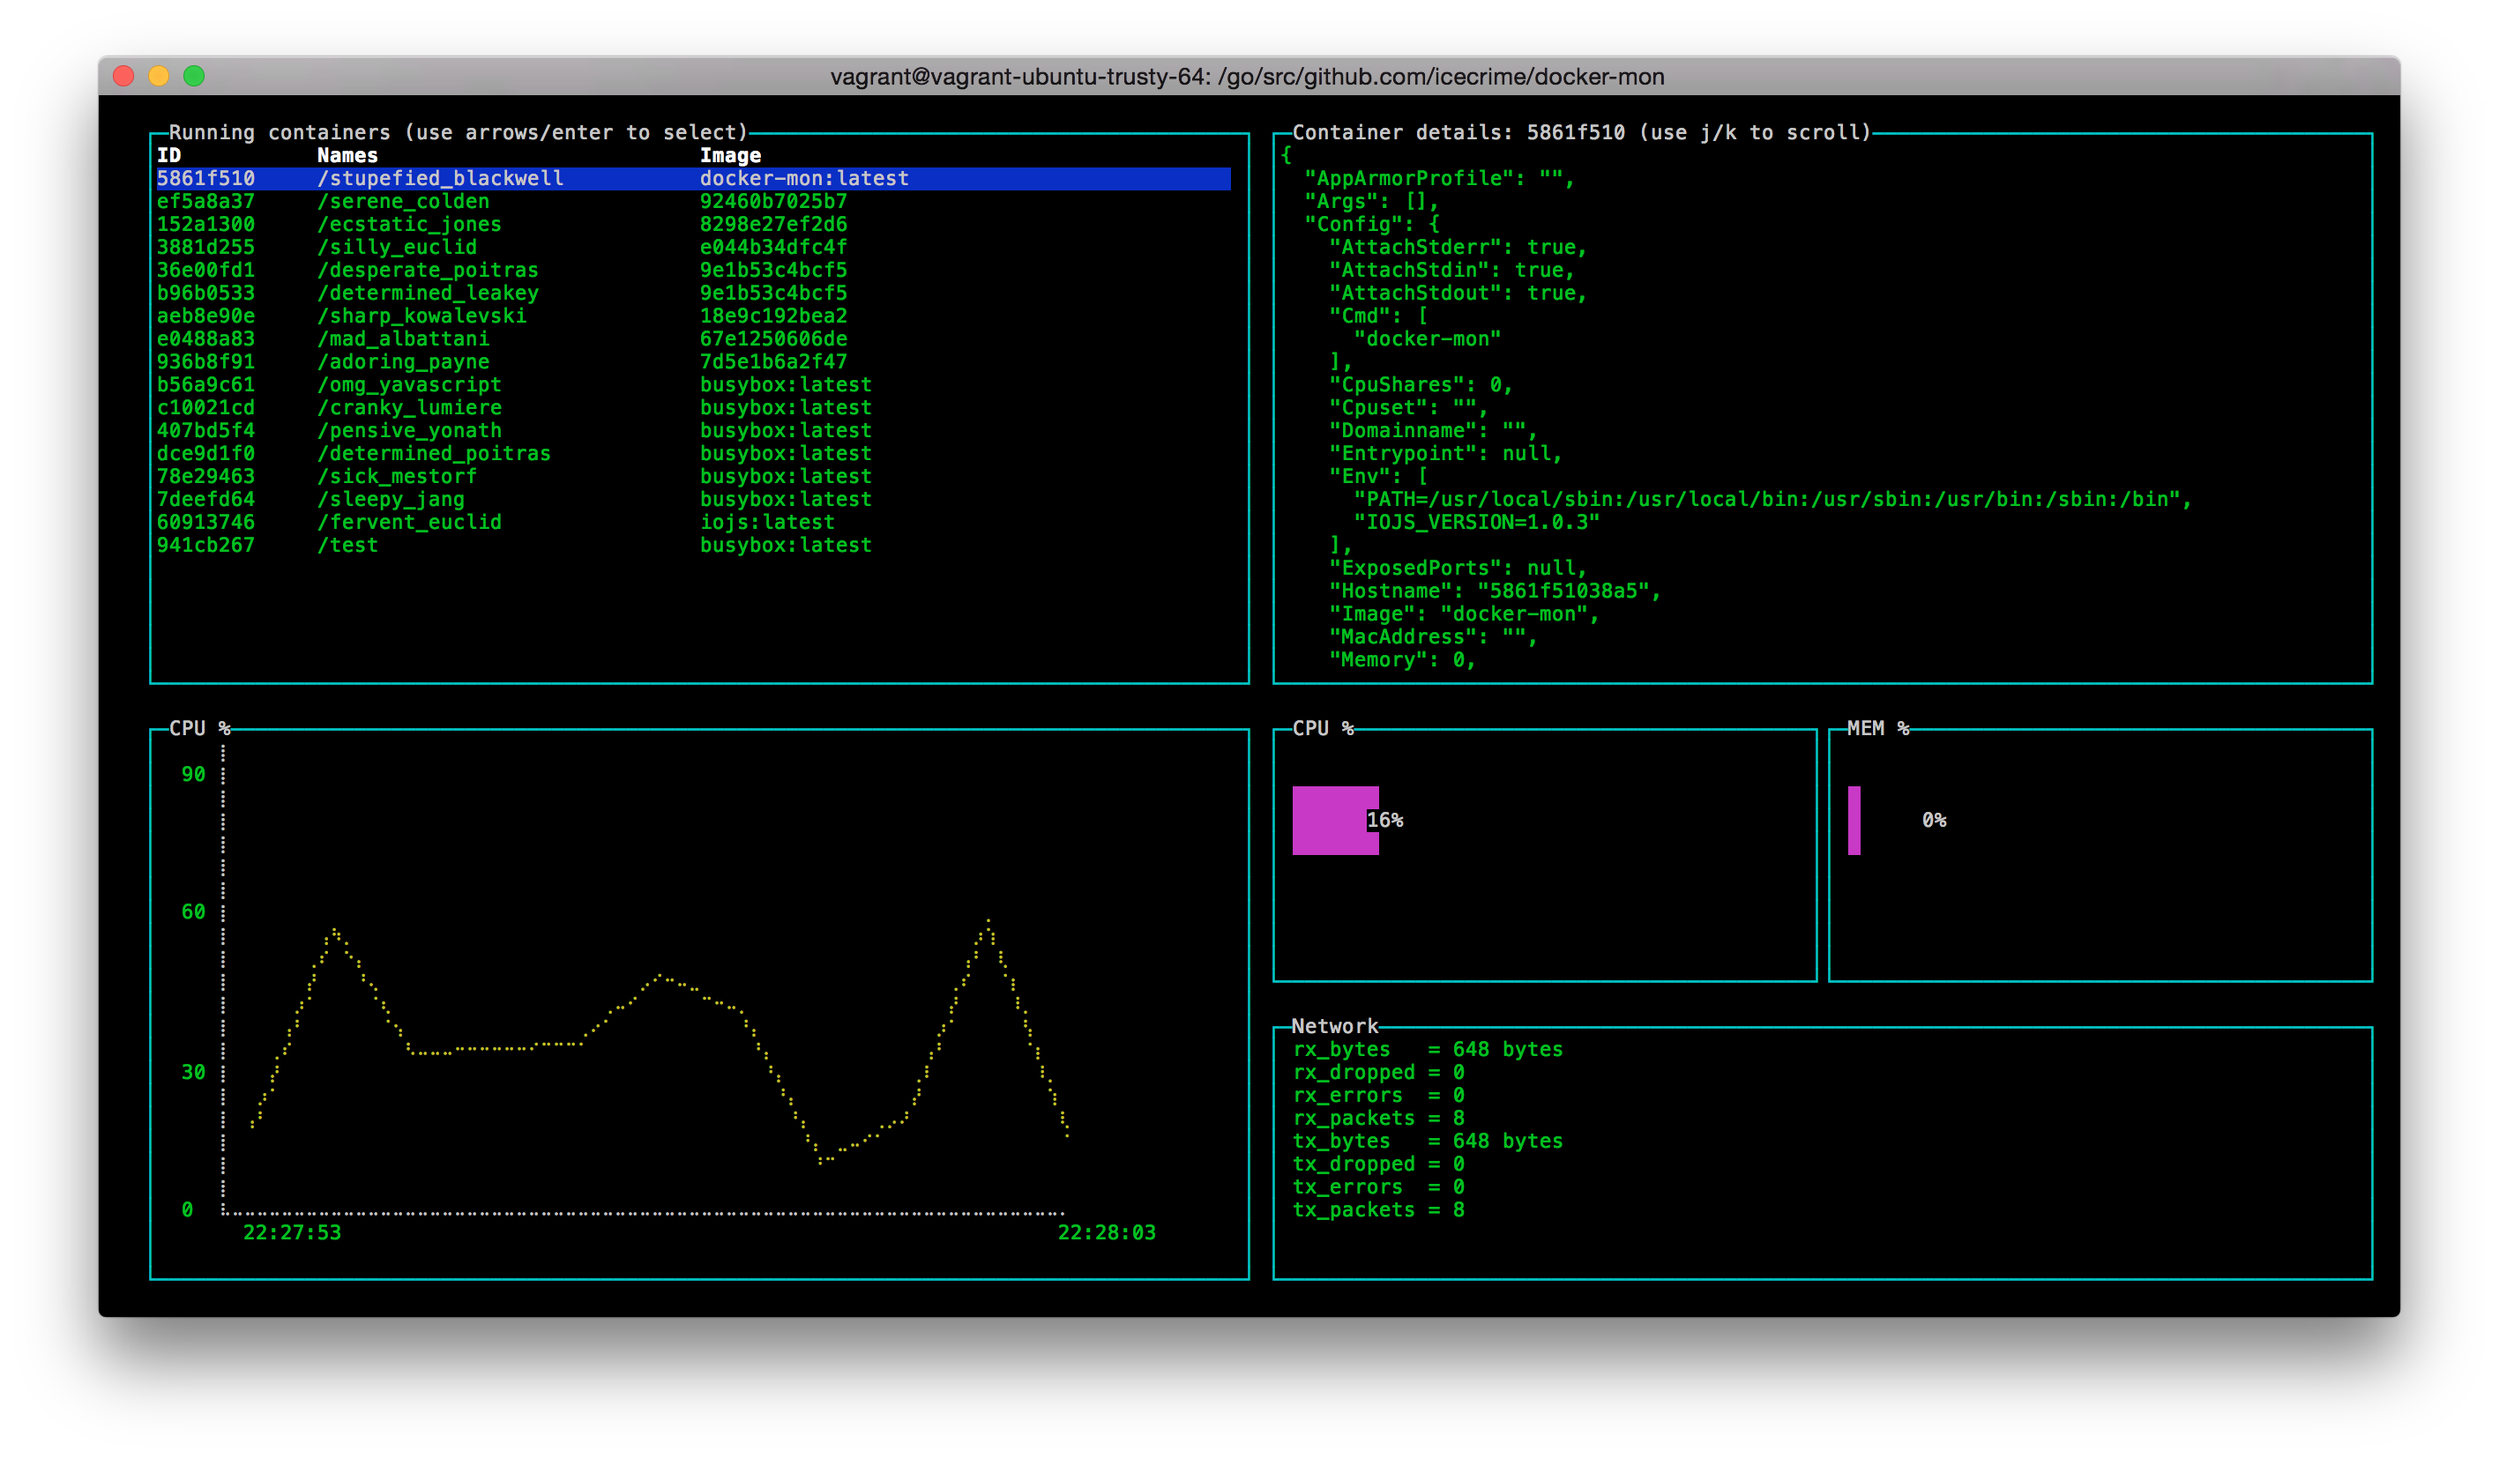
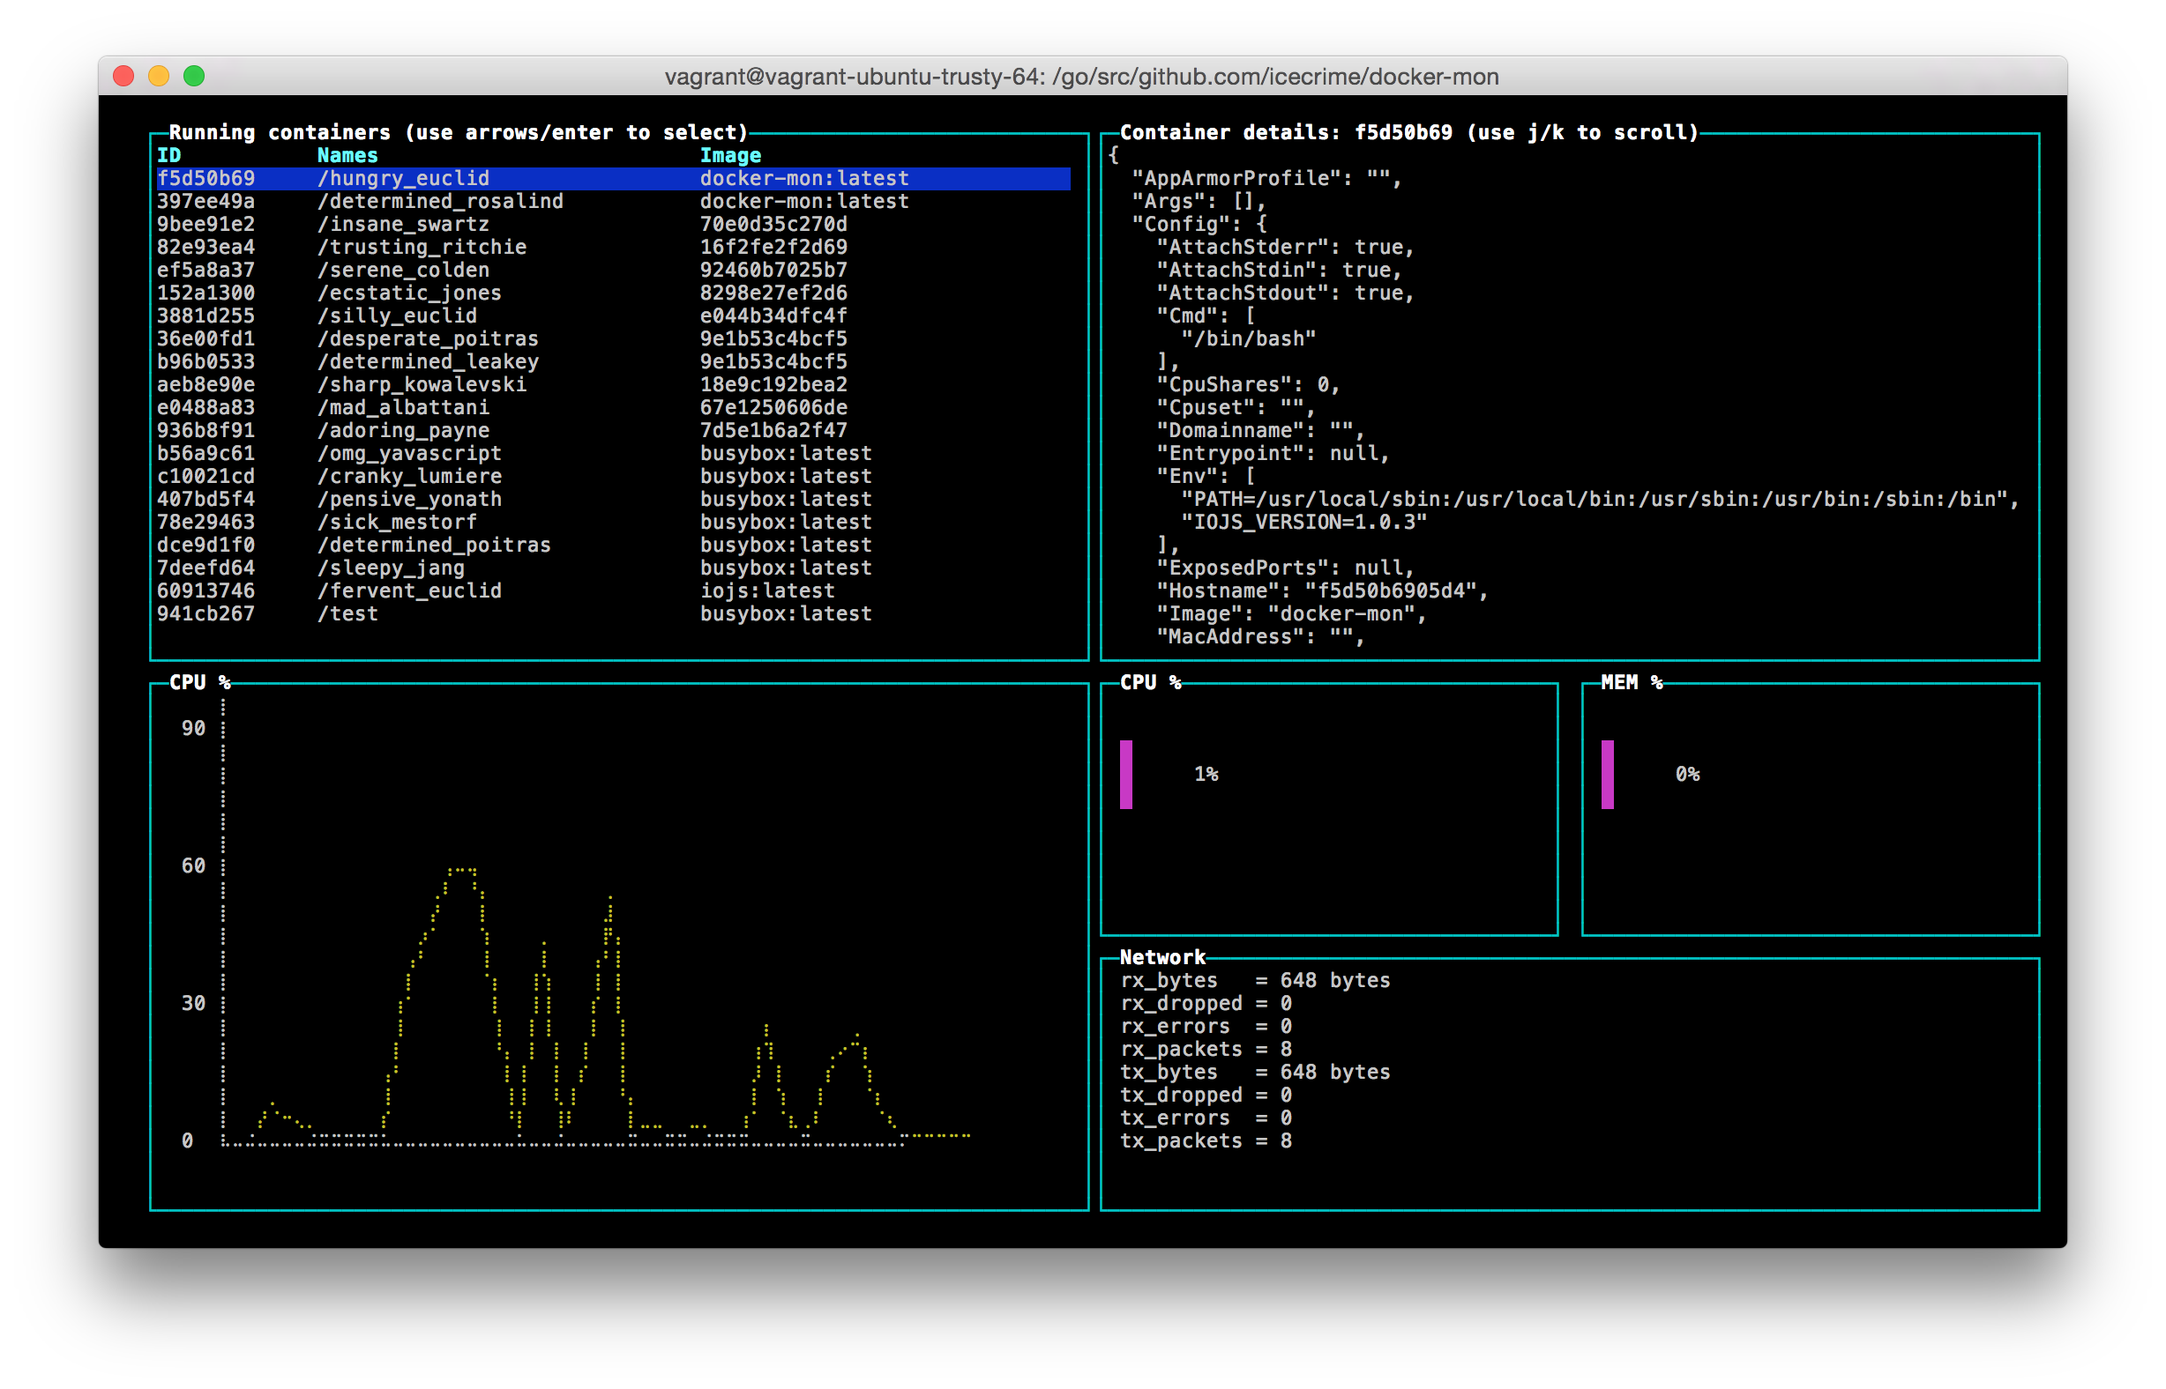
More Dockery theme

Changed region(s): [[0.0309, 0.0311, 0.9593, 0.9016], [0.2166, 0.8084, 0.4023, 0.8395]]

diff --git a/index.js b/index.js
@@ -69,17 +69,29 @@ parse(function (containers) {
         return cli.error("No containers.")
     }
 
+    var borderColor = "cyan"
+    var labelStyle = {
+        fg: "white",
+        bold: true
+    }
+
     // Create upper nested grid
     var upperGrid = new contrib.grid({rows: 1, cols: 2})
     upperGrid.set(0, 0, contrib.table, {
         columnSpacing: [14, 32, 10],
         label: "Running containers (use arrows/enter to select)",
-        parent: screen // workaround a blessed bug
+        parent: screen, // workaround a blessed bug
+        style: {
+            label: labelStyle
+        }
     })
     upperGrid.set(0, 1, blessed.box, {
-        fg: "green",
+        fg: "default",
         label: "Container details",
-        scrollable: true
+        scrollable: true,
+        style: {
+            label: labelStyle
+        }
     })
 
     var bottomGrid = new contrib.grid({rows: 1, cols: 2})
@@ -88,22 +100,36 @@ parse(function (containers) {
         maxY: 100,
         showNthLabel: 10,
         style: {
-            baseline: "white"
-        },
-        xPadding: 0
+            baseline: "white",
+            label: labelStyle,
+            line: "yellow",
+            text: "white"
+        }
     })
 
     var gaugesGrid = new contrib.grid({rows: 1, cols: 2})
-    gaugesGrid.set(0, 0, contrib.gauge, {label: "CPU %"})
-    gaugesGrid.set(0, 1, contrib.gauge, {label: "MEM %"})
+    gaugesGrid.set(0, 0, contrib.gauge, {
+        label: "CPU %",
+        style: {
+            label: labelStyle
+        }
+    })
+    gaugesGrid.set(0, 1, contrib.gauge, {
+        label: "MEM %",
+        style: {
+            label: labelStyle
+        }
+    })
 
     var bottomRightGrid = new contrib.grid({rows: 2, cols: 1})
     bottomRightGrid.set(0, 0, gaugesGrid)
     bottomRightGrid.set(1, 0, blessed.box, {
-        fg: "green",
         label: "Network",
         padding: {
             left: 1
+        },
+        style: {
+            label: labelStyle
         }
     })
 
@@ -120,10 +146,16 @@ parse(function (containers) {
     var cpuGauge = gaugesGrid.get(0, 0)
     var memGauge = gaugesGrid.get(0, 1)
     var networkBox = bottomRightGrid.get(1, 0)
+
+    cpuLine.border.style.fg = borderColor
+    cpuGauge.border.style.fg = borderColor
+    memGauge.border.style.fg = borderColor
+    networkBox.border.style.fg = borderColor
     cpuLine.canvasSize.width -= 12 // workaround to avoid overflowing the X labels
 
     // Create container detail view
     var containerDetailBox = upperGrid.get(0, 1)
+    containerDetailBox.border.style.fg = borderColor
 
     // Create container list
     var containersTable = upperGrid.get(0, 0)
@@ -150,6 +182,10 @@ parse(function (containers) {
             screen.render()
         })
     })
+    containersTable.border.style.fg = borderColor  // override blessed-contrib border color (cyan)
+    containersTable.rows.style.item.fg = "default" // override blessed-contrib item color (green)
+    containersTable.style.fg = "cyan"              // override blessed-contrib headers color (fg)
+    containersTable.style.bold = true              // override blessed-contrib headers style
     containersTable.focus()
 
     // Key bindings
